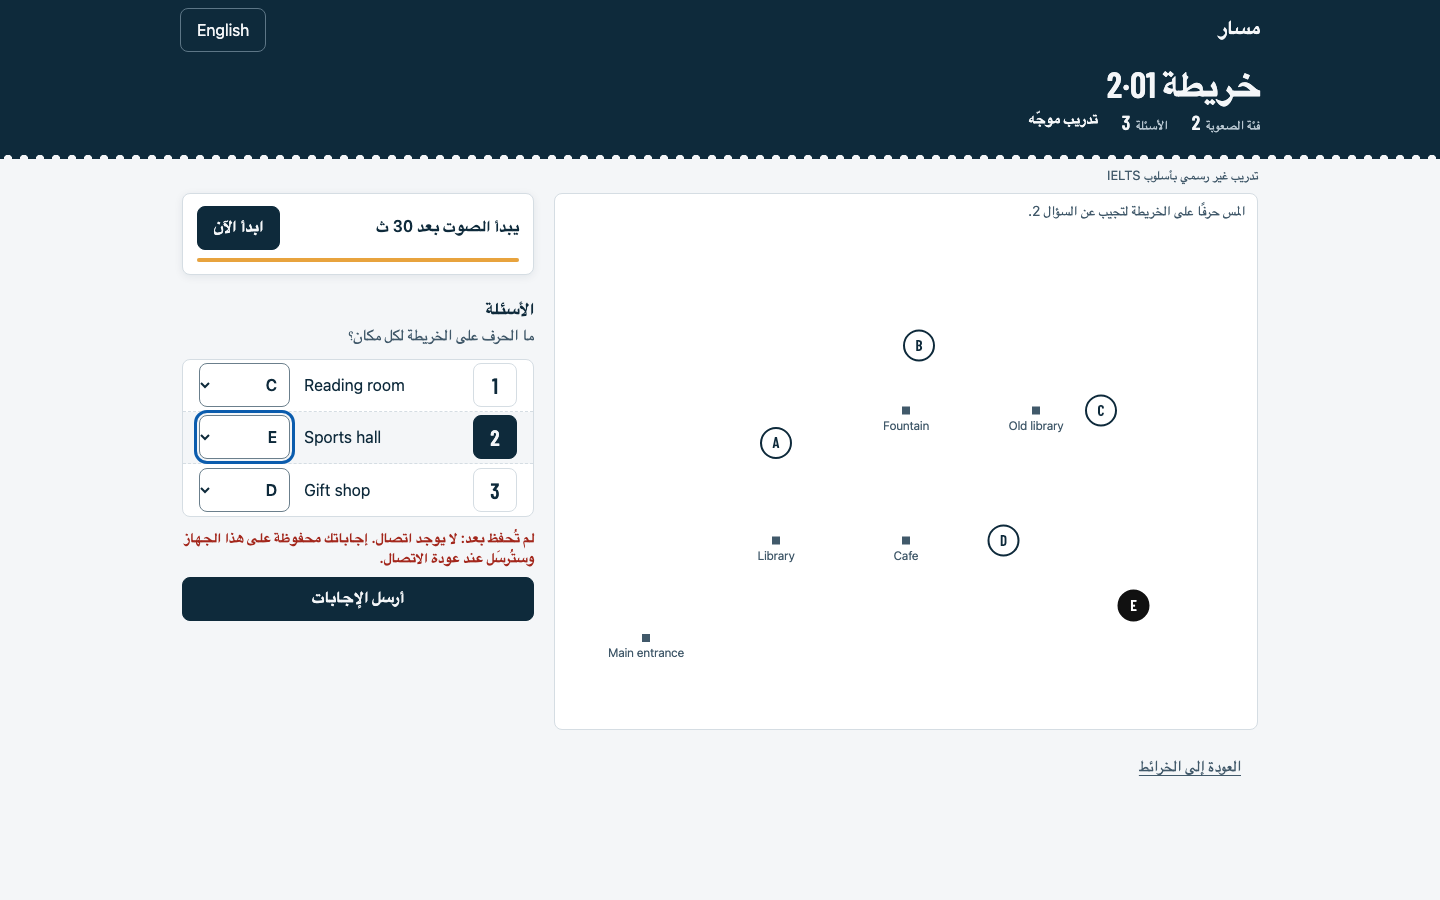
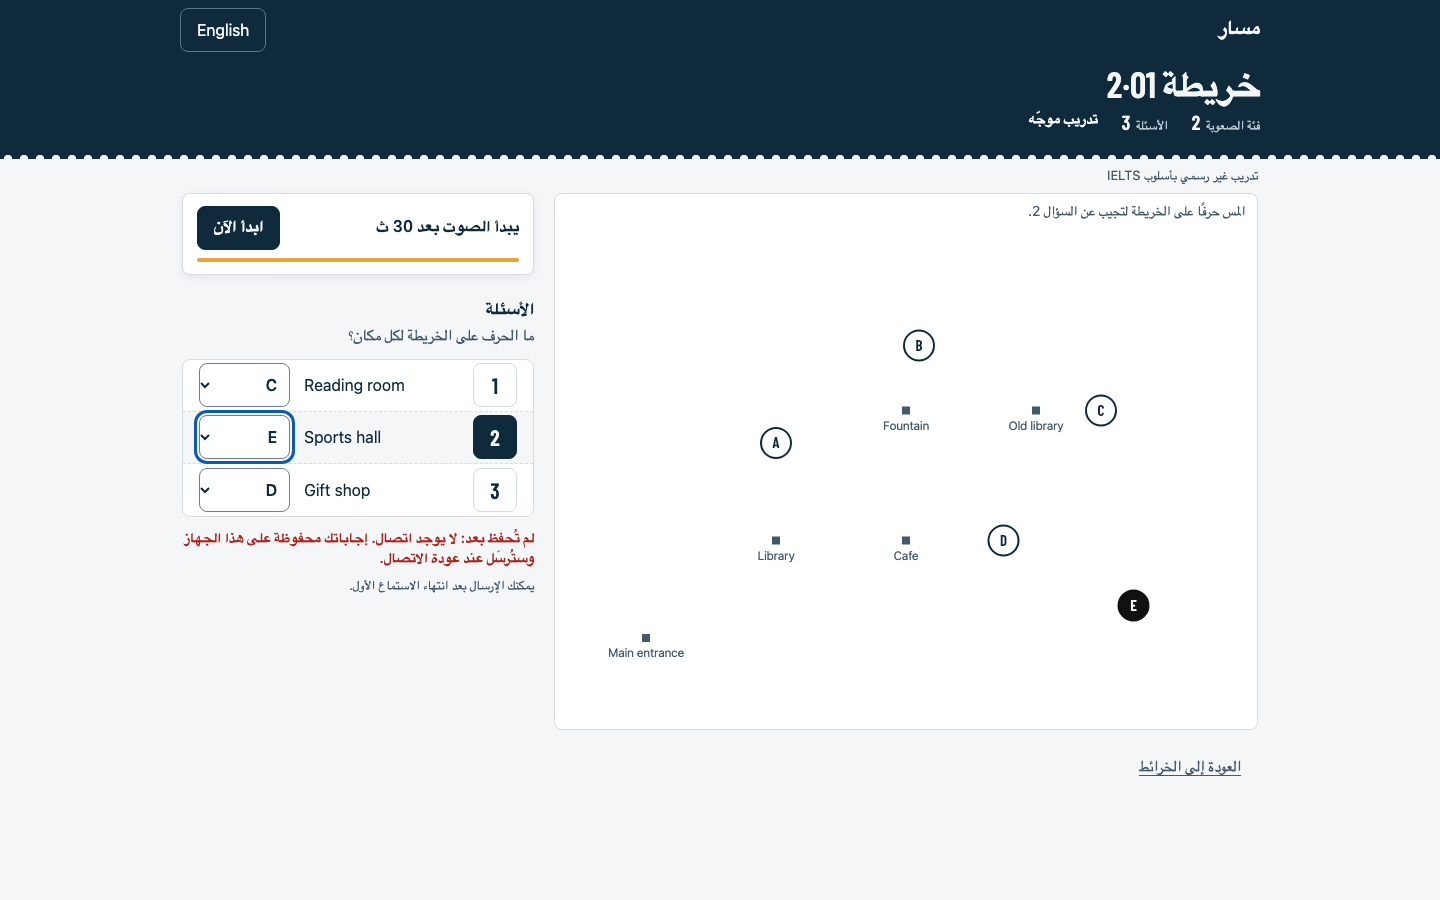
Ticket 08 owner decisions: Submit only after the first listen; no score at submit (it waits for Review, ticket 09); checkbox says client scores are refused; two-device overwrite recorded in ticket 12; browser tests finish the first listen before submitting

Changed region(s): [[0.125, 0.6222, 0.375, 0.7156]]

diff --git a/web/e2e/answer-submit.spec.ts b/web/e2e/answer-submit.spec.ts
@@ -23,8 +23,22 @@ async function openPlayer(page: Page) {
   return { attemptId, questions: item.questions };
 }
 
-// The result line on screen (the same words also go to a hidden screen-reader announcement).
-const resultLine = (page: Page, text: string) => page.locator('.status-text', { hasText: text });
+// Submit appears only once the first listen ends. The recording is 83 s long, so the test starts it and then marks it
+// ended, as the browser does at the end of the audio.
+async function finishFirstListen(page: Page) {
+  await expect(page.getByRole('button', { name: 'أرسل الإجابات' })).toHaveCount(0);
+  await expect(page.getByText('يمكنك الإرسال بعد انتهاء الاستماع الأول.')).toBeVisible();
+  await page.getByRole('button', { name: 'ابدأ الآن' }).click();
+  await page.locator('audio').evaluate((audio: HTMLAudioElement) => {
+    audio.dispatchEvent(new Event('ended'));
+    audio.pause();
+  });
+  await expect(page.getByRole('button', { name: 'أرسل الإجابات' })).toBeVisible();
+}
+
+// The submitted line on screen (the same words also go to a hidden screen-reader announcement). No score: it waits for
+// Review (ticket 09).
+const submittedLine = (page: Page) => page.locator('.status-text', { hasText: 'أُرسلت الإجابات.' });
 
 const letterOnMap = (page: Page, letter: string) =>
   page.locator('svg.item-map g.target').filter({ has: page.locator('text', { hasText: new RegExp(`^${letter}$`) }) });
@@ -74,10 +88,12 @@ test('a tap on the map and the letter list answer, change and save; offline answ
   expect((await stored(page, attemptId)).answers).toEqual({ q1: 'C', q2: 'E', q3: 'D' });
   await page.screenshot({ path: `${EVIDENCE}answered-${testInfo.project.name}.png`, fullPage: true });
 
-  // Submit: q1 and q2 right, q3 wrong. The page shows the server's score; the attempt is closed.
+  // Submit after the first listen: q1 and q2 right, q3 wrong. The server scores 2; the page shows no score yet.
+  await finishFirstListen(page);
   await page.getByRole('button', { name: 'أرسل الإجابات' }).click();
-  await expect(resultLine(page, 'أُرسلت الإجابات. أجبت إجابة صحيحة عن 2 من 3.')).toBeVisible();
-  await expect(page.getByRole('status')).toHaveText('أُرسلت الإجابات. أجبت إجابة صحيحة عن 2 من 3.');
+  await expect(submittedLine(page)).toBeVisible();
+  await expect(page.getByRole('status')).toHaveText('أُرسلت الإجابات.');
+  await expect(page.getByText(/من 3/)).toHaveCount(0);
   const done = await stored(page, attemptId);
   expect(done.status).toBe('submitted');
   expect(done.score).toBe(2);
@@ -108,22 +124,25 @@ test('a score the browser sends with submit is refused; the stored score is the 
     attemptId,
   );
   expect(forged).toBe(400);
+  await finishFirstListen(page);
   await page.getByRole('button', { name: 'أرسل الإجابات' }).click();
-  await expect(resultLine(page, 'أجبت إجابة صحيحة عن 0 من 3.')).toBeVisible();
+  await expect(submittedLine(page)).toBeVisible();
   expect((await stored(page, attemptId)).score).toBe(0);
 });
 
 test('submit while offline says so and keeps the answers; it works once back online', async ({ page, context }) => {
-  await openPlayer(page);
+  const { attemptId } = await openPlayer(page);
   await page.getByRole('combobox', { name: 'إجابة السؤال 1' }).selectOption('C');
   await expect(page.getByText('حُفظت كل الإجابات.')).toBeVisible();
+  await finishFirstListen(page);
   await context.setOffline(true);
   await page.getByRole('button', { name: 'أرسل الإجابات' }).click();
   await expect(page.getByText(/لا يمكنك الإرسال دون اتصال/)).toBeVisible();
   await expect(page.getByRole('combobox', { name: 'إجابة السؤال 1' })).toHaveValue('C');
   await context.setOffline(false);
   await page.getByRole('button', { name: 'أرسل الإجابات' }).click();
-  await expect(resultLine(page, 'أجبت إجابة صحيحة عن 1 من 3.')).toBeVisible();
+  await expect(submittedLine(page)).toBeVisible();
+  expect((await stored(page, attemptId)).score).toBe(1);
 });
 
 // A save the server refuses for good is not re-sent and does not promise a retry; answering and submit stop.
@@ -157,6 +176,7 @@ test('a submit refused because the attempt was already submitted says so, not "t
   const { attemptId } = await openPlayer(page);
   await page.getByRole('combobox', { name: 'إجابة السؤال 1' }).selectOption('C');
   await expect(page.getByText('حُفظت كل الإجابات.')).toBeVisible();
+  await finishFirstListen(page);
   // Submitted elsewhere (another tab or device) before this one.
   expect(
     await page.evaluate(

diff --git a/web/src/Player.tsx b/web/src/Player.tsx
@@ -189,7 +189,6 @@ function PlayerScreen({ t, mapNumber, onBack, onSessionGone, item, attempt }: Sc
         ? submitState
         : null;
   const locked = submitted || ended !== null;
-  const resultLine = (score: number | undefined) => `${t.submitted} ${t.scoreOf(score ?? 0, item.questions.length)}`;
   const unanswered = item.questions.filter((q) => !answers[q.id]).length;
   const activeIndex = item.questions.findIndex((q) => q.id === activeQuestion);
 
@@ -217,7 +216,8 @@ function PlayerScreen({ t, mapNumber, onBack, onSessionGone, item, attempt }: Sc
     stopListening();
     setResult(res.value);
     setSubmitState('idle');
-    setAnnouncement(resultLine(res.value.score));
+    // The score waits for Review (spec story 31, ticket 09); submit only confirms the answers were sent (owner, 2026-11-19).
+    setAnnouncement(t.submitted);
     strip.current?.focus();
   };
   // An attempt that is closed (submitted or refused for good) ends the listen: the audio stops, reading time cannot start
@@ -265,7 +265,7 @@ function PlayerScreen({ t, mapNumber, onBack, onSessionGone, item, attempt }: Sc
               <path d="M7 12.5l3.2 3.2L17 9" />
             </svg>
             <div>
-              <p className="status-text">{resultLine(result.score)}</p>
+              <p className="status-text">{t.submitted}</p>
               <p className="status-note">{t.reviewLater}</p>
             </div>
           </div>
@@ -413,9 +413,15 @@ function PlayerScreen({ t, mapNumber, onBack, onSessionGone, item, attempt }: Sc
                 {submitState === 'offline' ? t.submitOffline : t.submitFailed}
               </p>
             )}
-            <button type="button" className="primary" disabled={submitState === 'submitting'} onClick={submit}>
-              {submitState === 'submitting' ? t.submitting : t.submitAnswers}
-            </button>
+            {/* Submit waits for the end of the first listen, so a stray tap cannot end the attempt early (owner,
+                2026-11-19). */}
+            {phase === 'finished' ? (
+              <button type="button" className="primary" disabled={submitState === 'submitting'} onClick={submit}>
+                {submitState === 'submitting' ? t.submitting : t.submitAnswers}
+              </button>
+            ) : (
+              <p className="status-note">{t.submitAfterListen}</p>
+            )}
           </div>
         )}
       </section>

diff --git a/web/src/strings.ts b/web/src/strings.ts
@@ -162,7 +162,7 @@ const en = {
   submitOffline: 'You cannot submit without a connection. Your answers are kept; try again when you are online.',
   submitFailed: 'Your answers could not be submitted. Try again.',
   submitted: 'Answers submitted.',
-  scoreOf: (score: number, total: number) => `You got ${score} of ${total} right.`,
+  submitAfterListen: 'You can submit once the first listen ends.',
   reviewLater: 'Review with Answer Replay is not available in this version yet.',
 };
 
@@ -318,7 +318,7 @@ const ar: typeof en = {
   submitOffline: 'لا يمكنك الإرسال دون اتصال. إجاباتك محفوظة؛ حاول مرة أخرى عند عودة الاتصال.',
   submitFailed: 'تعذّر إرسال إجاباتك. حاول مرة أخرى.',
   submitted: 'أُرسلت الإجابات.',
-  scoreOf: (score: number, total: number) => `أجبت إجابة صحيحة عن ${score} من ${total}.`,
+  submitAfterListen: 'يمكنك الإرسال بعد انتهاء الاستماع الأول.',
   reviewLater: 'المراجعة مع إعادة عرض الإجابة غير متاحة في هذه النسخة بعد.',
 };
 

diff --git a/.scratch/listening-map-prototype/issues/08-answer-submit.md b/.scratch/listening-map-prototype/issues/08-answer-submit.md
@@ -4,13 +4,13 @@
 
 **Blocked by:** 07 Browse and player shell
 
-**Status:** ready-for-human (built on `agent/answer-submit`; code-review and Impeccable critique/audit run 2026-11-19, fixes in; owner decisions open, see last comment)
+**Status:** ready-for-human (built on `agent/answer-submit`; code-review and Impeccable critique/audit run 2026-11-19, fixes in; owner decisions answered 2026-11-19 and built, see last comment)
 
 Spec: `../spec.md`
 
 - [x] Answer by map tap and by keyboard-operable list; both store the same answer
 - [x] Answers saved to the server as they change; unsaved state shown when offline and re-sent
-- [x] Submit scores on the server; client-sent scores are ignored
+- [x] Submit scores on the server; client-sent scores are refused (400) and only the server's score is stored (wording changed by the owner, 2026-11-19)
 - [ ] Attempt fields follow the harness contract; cross-user access cases pass for attempts
 
 ## Comments
@@ -82,3 +82,22 @@ Built on `agent/answer-submit` (from `main` after PR #20).
 - **Still open from critique:**
   - Answers already given are not shown on the map; only the active question's letter is (suggested `/impeccable shape`).
   - The submit area stacks three grey lines.
+
+### 2026-11-19, owner decisions (answered in the session) and agent
+- **1. Submit after the first listen.** Submit appears only when the first listen has ended. Until then the submit area says "You can submit once the first listen ends." (new string `submitAfterListen`, English and Arabic).
+  - Known edge: if the audio never loads, the learner cannot submit. They see the audio error with its retry, and "Back to maps".
+- **2. No score at submit.** The submit screen says only "Answers submitted." and the review-later note. The score waits for Review (spec story 31, ticket 09). It is still computed and stored on the server. The `scoreOf` string is removed.
+- **3. Wording.** The checkbox now says client-sent scores are refused. No code change.
+- **4. Two devices.** Left for ticket 12, where it is recorded.
+- **Tests:**
+  - Browser tests now finish the first listen before submitting (`finishFirstListen`: it starts the audio and marks it ended), and they check that Submit is hidden before then.
+  - Score checks read the stored attempt, not the screen.
+- **Ran:**
+  - type check clean;
+  - lint 4 warnings (from before this change);
+  - build OK;
+  - `npx playwright test`: 37 passed, 2 skipped (log `playwright-run-owner-decisions.txt`). Screenshots re-taken.
+- **NOT VERIFIED:**
+  - the new Arabic string, which needs a fluent reader;
+  - the server tests, which did not change and were not re-run for this commit;
+  - CI.

diff --git a/.scratch/listening-map-prototype/issues/12-resume-repeat.md b/.scratch/listening-map-prototype/issues/12-resume-repeat.md
@@ -14,3 +14,7 @@ Spec: `../spec.md`
 - [ ] Browse marks seen items
 
 ## Comments
+
+### 2026-11-19, from ticket 08 (owner: fix here, not in 08)
+- **Known issue:** answers that could not be sent stay on the device (`web/src/saved-answers.ts`) and win over the server's copy when the attempt is opened again. If the learner answered later on another device, the older device copy overwrites those newer answers.
+- **Fix here:** when resuming, keep the newest copy. For example, store a change time with the device copy, and have the server return when it last saved the answers.
